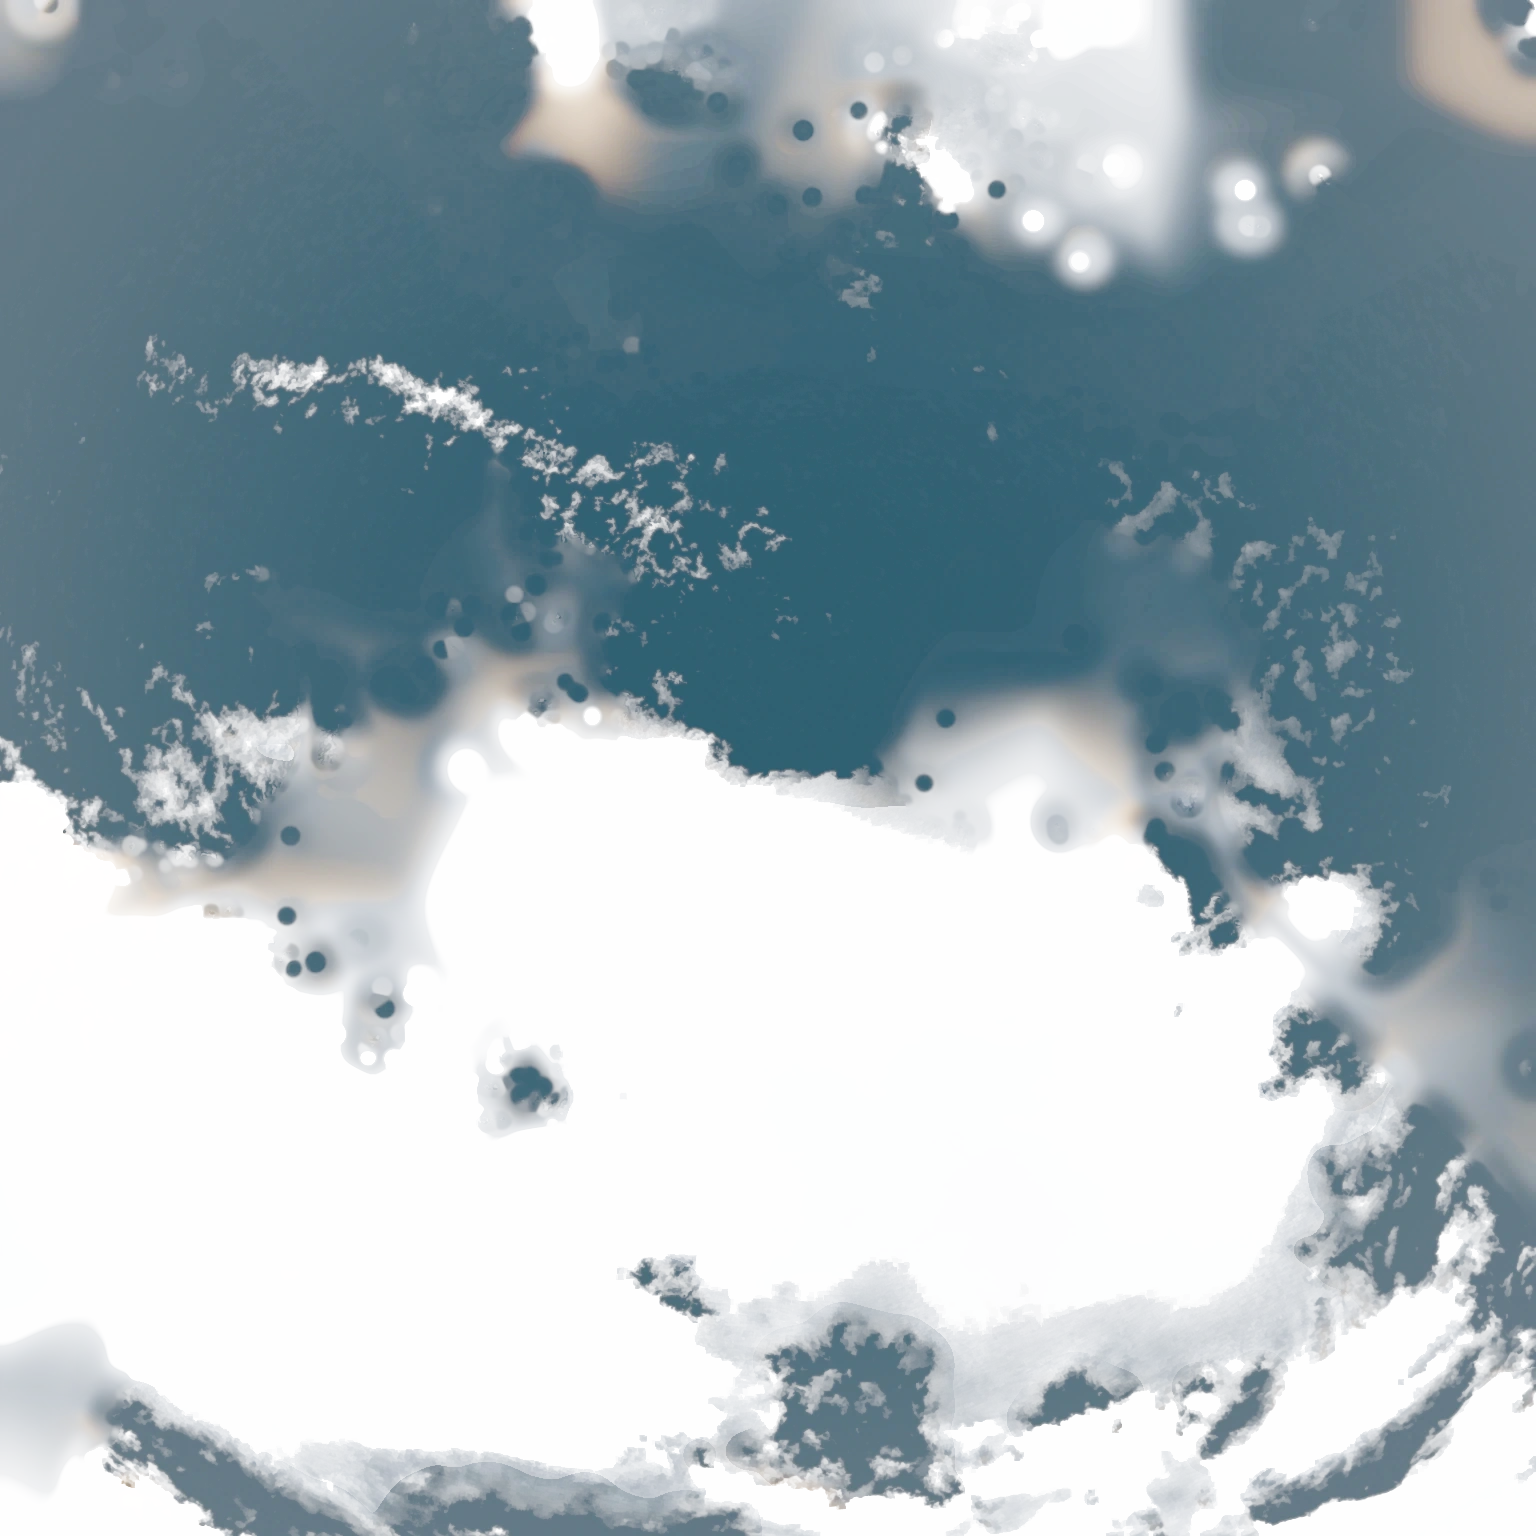
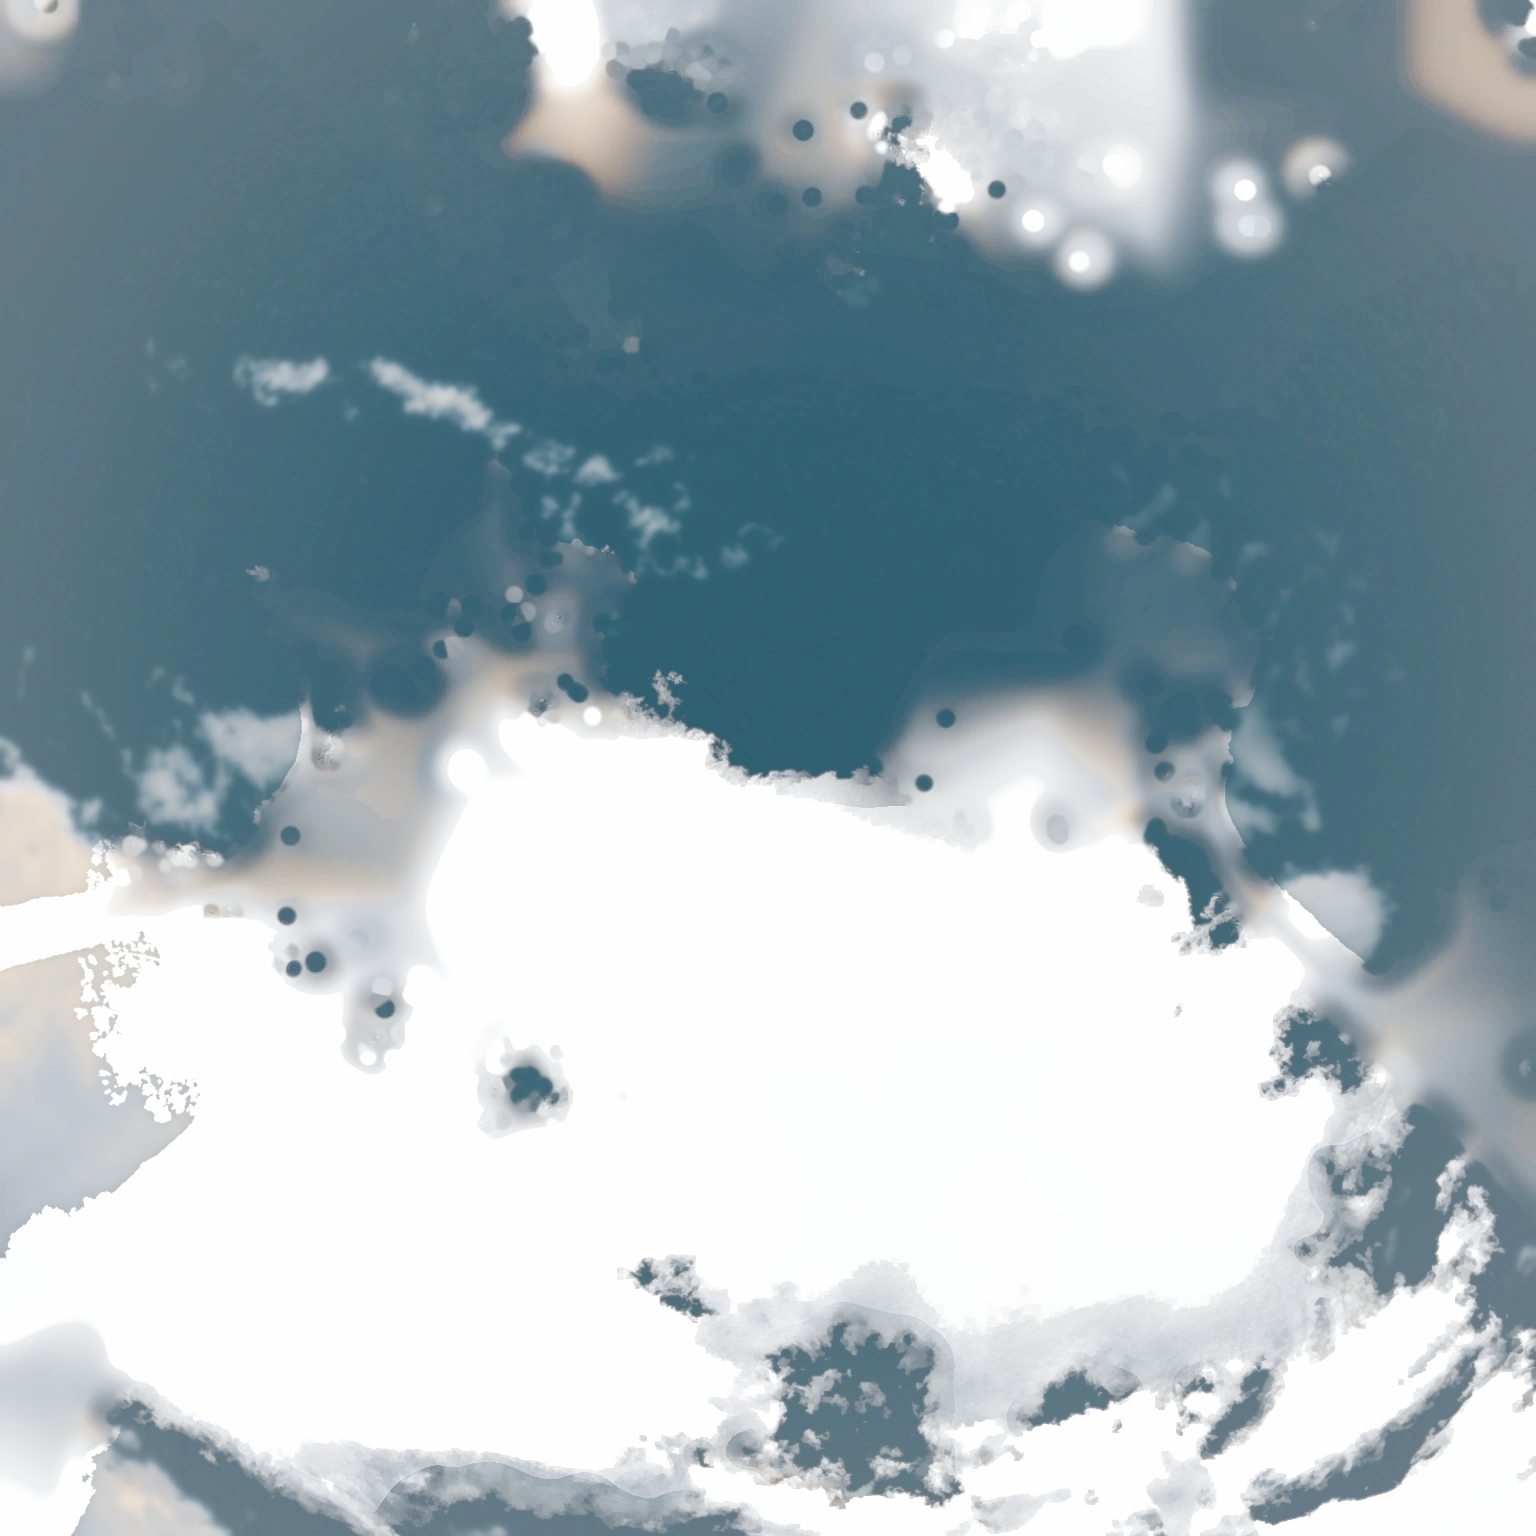
Lab: climb overexpose round 1
Claude-Session: https://claude.ai/code/session_01RqENhngNCzDFmJWDZueXGV

diff --git a/tools/depth/bakes/overexpose/wisps.py b/tools/depth/bakes/overexpose/wisps.py
@@ -1,0 +1,154 @@
+# Feather the flecks: the small cloud scattered over the upper sky, away from the bank.
+#
+# On the shipped bake (swap.py, polarise.py --relay, defringe.py) the open sky above
+# the cumulus bank carries a few hundred small cloud fragments: the photograph's
+# altocumulus and the frayed crumbs of the bank's far edge, solved per pixel by
+# cumulus.py's depth matte. Most are under 50 px, their depth steps from 0 to its
+# peak in a pixel or two, and their light is the bank's grey-white, so against the
+# deep cobalt they printed as a confetti of hard white cut-outs: posterised, not wisps.
+#
+# Here, on that bake, for every cloud component in view (the pines' matte under 0.5)
+# that is not the bank (the largest component and the holes inside it), not the hidden
+# sun's glow behind the top crowns (SUN_SPARE deg) and not crumbs of cloud seen
+# through a crown's gaps (TREE_SHARE of it on a pine's edge):
+#   - the depth d is read back from alpha exactly as relay() does;
+#   - each fleck and the few px of light defringe.py feathered past it (HALO_PX) are
+#     taken out to open sky: the dome times the sky's own grain, borrowed from open
+#     sky a short offset away (GRAIN_SHIFTS);
+#   - then laid back feathered: specks under DROP_PX are dropped and up to FADE_PX
+#     eased in, so what is left is a few real wisps; the depth is blurred at two
+#     scales (FEATHER: a core that keeps the fleck's shape and a wide skirt), given a
+#     toe (EDGE_K) so the light climbs out of the sky slowly instead of jumping a stop
+#     in its first pixel, and eased onto D_CAP, so even a wisp's thickest part lets
+#     the sky through and a small one never reaches the white of a big one;
+#   - the cloud's light is a masked blur of the solved light (so it has no hard step
+#     either) and its chromaticity is eased onto the local sky's where the feathered
+#     depth is thin (SKY_TINT), so a wisp's thin edge takes the cobalt it sits in.
+# Each pixel is then that sky x (1 - d') + d' x the cloud light, the cloud share written
+# back into alpha (the glow key under it as relay() reads it), and the optics take the
+# change's own blur, seen through (1 - the pines' matte).
+#
+#   python3 wisps.py <scene.webp> <trees.webp> <optics.png> [out_dir]
+import sys, os; sys.path.insert(0, os.path.dirname(os.path.abspath(__file__)))
+import bake_wormseye as bw
+import crown
+import numpy as np
+import polarise
+import sunburst
+from PIL import Image
+from scipy import ndimage as ndi
+
+LUMA = np.array([0.2126, 0.7152, 0.0722])
+D_MIN = 0.03                 # depth that counts as cloud when finding the components
+BANK_GROW = 6                # px: a fleck this close to the bank belongs to its edge
+DROP_PX, FADE_PX = 40, 260   # component area (px): taken out, then eased back in
+FEATHER = ((2.5, 0.5), (7.0, 0.5))   # the depth's blur: (px, weight), a core and a skirt
+EDGE_K = 0.15                # the feathered depth's toe: d^2 / (d + EDGE_K), so the light climbs
+                             # out of the sky slowly over the skirt (the print is log: a straight
+                             # ramp in depth jumps a stop in its first pixel)
+D_CAP = 0.65                 # a wisp is never fully opaque: d' eases onto this
+HALO_PX = 4                  # px of feathered light round a fleck taken out with it
+GRAIN_CLIP = (0.8, 1.25)     # the borrowed grain's ratio to the dome
+TREE_PX, TREE_SHARE = 3, 0.3  # a component with this share of it within TREE_PX of a pine is behind it
+LIGHT_PX = 3.0               # the cloud light's masked blur (px)
+SKY_TINT = 0.85              # how far the thinnest edge's chromaticity goes to the sky's
+TINT_D = 0.45                # feathered depth by which it keeps its own cloud colour
+SUN_SPARE = (12.0, 18.0)     # deg from the hidden sun: left alone, then fully treated
+GRAIN_SHIFTS = [(dy, dx) for r in (24, 40, 64, 96) for dy, dx in ((r, 0), (0, r), (-r, 0), (0, -r), (r, r), (-r, -r), (r, -r), (-r, r))]
+
+def chroma(x):
+    return x / np.maximum(x @ LUMA, 1e-6)[..., None]
+
+def key_of(g, ta):
+    ksky = np.clip(ndi.gaussian_filter(1 - ta, 1.5), 0, 1)
+    return sunburst.KEY_A * np.exp(-g / sunburst.KEY_DEG) * (sunburst.KEY_NEEDLE + (1 - sunburst.KEY_NEEDLE) * ksky)
+
+def wisps(pix, a8, ta):
+    _, d, z, g = polarise.relay(pix, a8, ta)
+    T = polarise.sky_field(z)
+    N = T + crown.aureole(T, g)
+    n = d.shape[0]
+    # the components, of the cloud the pines leave in view: the bank (largest, with its
+    # holes) and the glow behind the top crowns stay
+    vis = (d > D_MIN) & (ta < 0.5)
+    lab, k = ndi.label(vis)
+    ids = np.arange(1, k + 1)
+    area = ndi.sum(np.ones_like(d), lab, ids)
+    bank = lab == (np.argmax(area) + 1)
+    bank = ndi.binary_fill_holes(ndi.binary_dilation(bank, iterations=BANK_GROW))
+    near_sun = ndi.minimum(g, lab, ids) < SUN_SPARE[0]
+    on_bank = ndi.maximum(bank.astype(float), lab, ids) > 0
+    # cloud seen through a crown's gaps breaks into crumbs along the needles: a component
+    # mostly on the pines' edge is a piece of what lies behind them, not a fleck
+    by_tree = ndi.mean(ndi.binary_dilation(ta > 0.3, iterations=TREE_PX).astype(float), lab, ids) > TREE_SHARE
+    fleck_ids = np.nonzero(~(on_bank | near_sun | by_tree))[0] + 1
+    # per component: how much of it survives (specks out, small ones eased)
+    w_c = polarise.smooth(area, DROP_PX, FADE_PX)
+    W = np.zeros(k + 1); W[fleck_ids] = w_c[fleck_ids - 1]
+    F = np.zeros(k + 1); F[fleck_ids] = 1.0
+    fl = F[lab] > 0                               # the flecks' own pixels
+    other = (d > D_MIN) & ~fl                     # every other cloud (the bank, under the crowns)
+    sp = polarise.smooth(g, *SUN_SPARE)
+    # the flecks taken out: their pixels and the few px of light defringe.py feathered
+    # past them, as open sky (the dome x grain borrowed from open sky a short way off)
+    mk = ndi.binary_dilation(fl, iterations=HALO_PX) & ~ndi.binary_dilation(other, iterations=1)
+    mk = ndi.gaussian_filter(mk.astype(float), 0.8) * ~ndi.binary_dilation(other, iterations=1)
+    open_ = (ta < 0.01) & ~ndi.binary_dilation(d > 0.005, iterations=HALO_PX + 2)
+    gr = np.clip(pix / N, *GRAIN_CLIP)
+    G = np.ones_like(pix); got = np.zeros((n, n), bool)
+    for dy, dx in GRAIN_SHIFTS:
+        ok = np.roll(open_, (dy, dx), (0, 1)) & ~got
+        G[ok] = np.roll(gr, (dy, dx), (0, 1))[ok]; got |= ok
+    base = pix * (1 - mk[..., None]) + N * G * mk[..., None]
+    d_base = d * (1 - mk)
+    # the solved cloud light (d x C = pix - (1 - d) N), carried smooth
+    dC = np.maximum(pix - (1 - d)[..., None] * N, 0)
+    m = fl.astype(float)
+    C = np.stack([ndi.gaussian_filter(dC[..., i] * m, LIGHT_PX) for i in range(3)], -1) \
+        / np.maximum(ndi.gaussian_filter(d * m, LIGHT_PX), 1e-4)[..., None]
+    # the feathered depth: each fleck weighted by its survival, blurred at two scales (a
+    # core that keeps the fleck's shape and a wide skirt, so the light opens into the sky
+    # over many px), then eased onto D_CAP
+    dw = d * fl * W[lab]
+    dk = sum(wt * ndi.gaussian_filter(dw, px) for px, wt in FEATHER)
+    dn = D_CAP * (1 - np.exp(-(dk * dk / (dk + EDGE_K)) / D_CAP))
+    # the light's chromaticity eased to the local sky's where the feathered fleck is thin
+    t = (SKY_TINT * (1 - polarise.smooth(dn, 0.0, TINT_D)))[..., None]
+    Cn = (C @ LUMA)[..., None] * chroma(chroma(C) * (1 - t) + chroma(N) * t)
+    new = base * (1 - dn)[..., None] + dn[..., None] * Cn
+    d_new = d_base + dn * (1 - d_base)
+    b = sp[..., None]
+    out = pix * (1 - b) + new * b
+    d_out = d * (1 - sp) + d_new * sp
+    region = ((mk > 1e-3) | (dn > 1e-4)) & (sp > 0)
+    key = key_of(g, ta)
+    share = key + d_out * (1 - key)
+    a8n = np.where(region, np.clip(np.round(3 + 252 * (1 - share)), 0, 255), a8).astype(np.uint8)
+    stats = {'flecks': len(fleck_ids), 'dropped': int((w_c[fleck_ids - 1] == 0).sum()),
+             'eased': int(((w_c[fleck_ids - 1] > 0) & (w_c[fleck_ids - 1] < 1)).sum()),
+             'region': int(region.sum()), 'grain_missing': int(((mk > 0) & ~got).sum())}
+    return np.maximum(out, 2.0 ** bw.LO), a8n, region, stats
+
+def main(argv):
+    s = np.asarray(Image.open(argv[0]).convert('RGBA'))
+    s8, a8 = s[..., :3], s[..., 3]
+    ta = np.asarray(Image.open(argv[1]).convert('RGBA'))[..., 3] / 255.0
+    g8 = np.asarray(Image.open(argv[2]).convert('RGB'))
+    pix = bw.dec_log(s8)
+    out, a8n, region, st = wisps(pix, a8, ta)
+    print(st)
+    rng = np.random.default_rng(89)
+    changed = region & (np.abs(np.log2(out / pix)).max(-1) > 1e-3)
+    s8n = np.where(changed[..., None], bw.enc_log(out, rng), s8).astype(np.uint8)
+    d_opt = bw.optics((1 - ta)[..., None] * (out - pix))
+    glow = np.maximum(bw.dec_log(g8) + d_opt, 2.0 ** bw.LO)
+    g8n = np.where((np.abs(d_opt) > 1e-5).any(-1, keepdims=True), bw.enc_log(glow, rng), g8).astype(np.uint8)
+    print(f'changed px {float(changed.mean()):.4f}, alpha changed {float((a8n != a8).mean()):.4f}')
+    od = argv[3] if len(argv) > 3 else bw.OUT
+    Image.fromarray(np.dstack([s8n, a8n]), 'RGBA').save(os.path.join(od, 'scene.webp'), 'WEBP',
+                                                        quality=95, alpha_quality=100, method=6, exact=True, use_sharp_yuv=True)
+    Image.fromarray(g8n, 'RGB').save(os.path.join(od, 'optics.png'), optimize=True)
+    print('wrote', od)
+
+if __name__ == '__main__':
+    main(sys.argv[1:])

diff --git a/tools/depth/bakes/overexpose/bake_wormseye.py b/tools/depth/bakes/overexpose/bake_wormseye.py
@@ -20,6 +20,8 @@
 #     && python3 swap.py <copy of scene.webp> <copy of trees.webp> <stone_pines_8k.hdr>
 #                (the source swapped to Poly Haven's Stone Pines, nearly straight up: yaw 15 / pitch +83 / field 118 / roll +10;
 #                 open sky laid fresh as the dome, pines and cumulus solved from the new HDR; this is the shipped bake)
+#     && python3 wisps.py <copy of scene.webp> <copy of trees.webp> <copy of optics.png>
+#                (once, after polarise.py --relay and defringe.py: the upper sky's flecks taken out, the few wisps feathered back)
 # (OE_WORK holds the 8k caches). bake.py is the earlier rectilinear bake, kept for reference.
 import numpy as np, io, os, sys
 from PIL import Image
